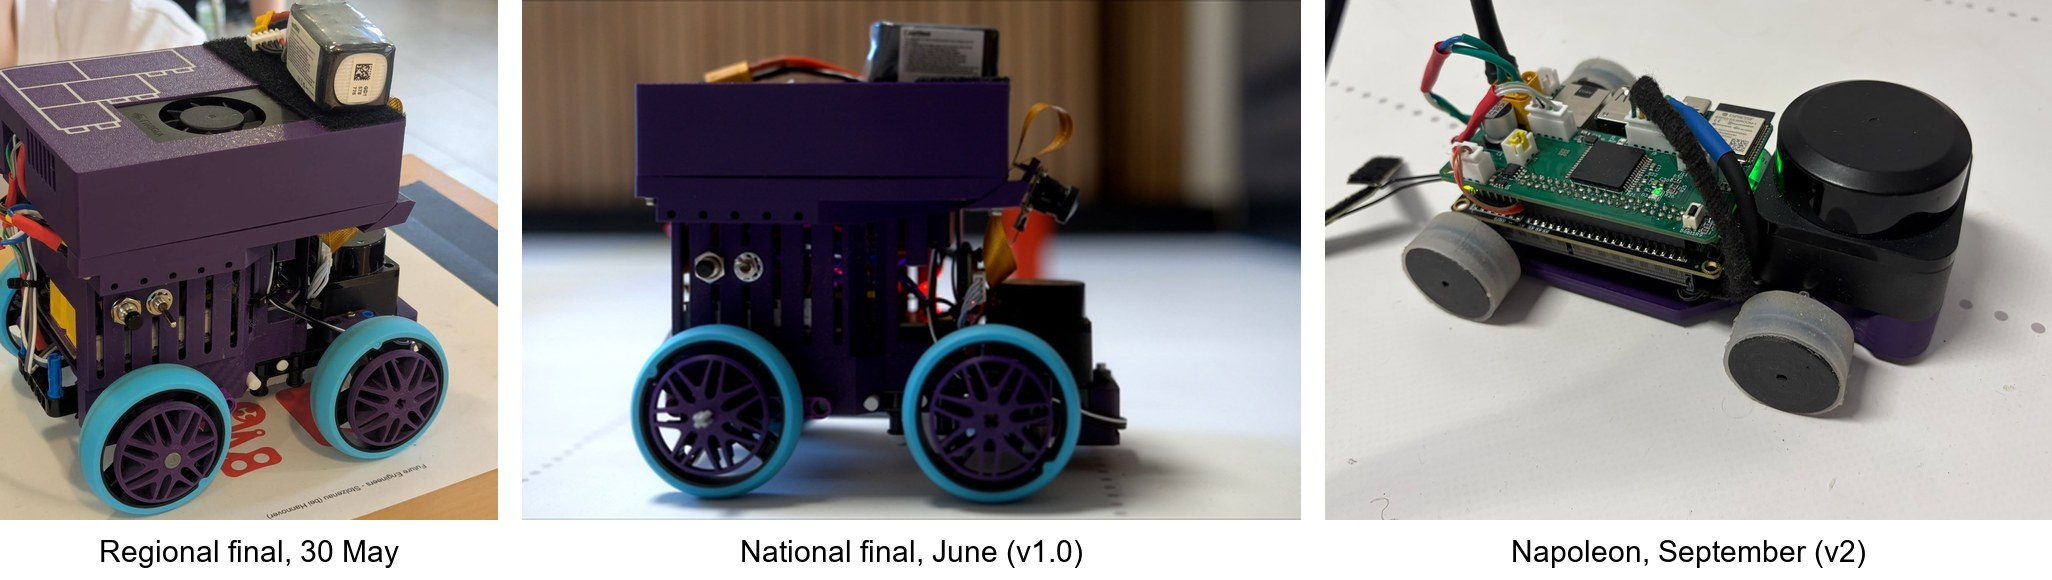
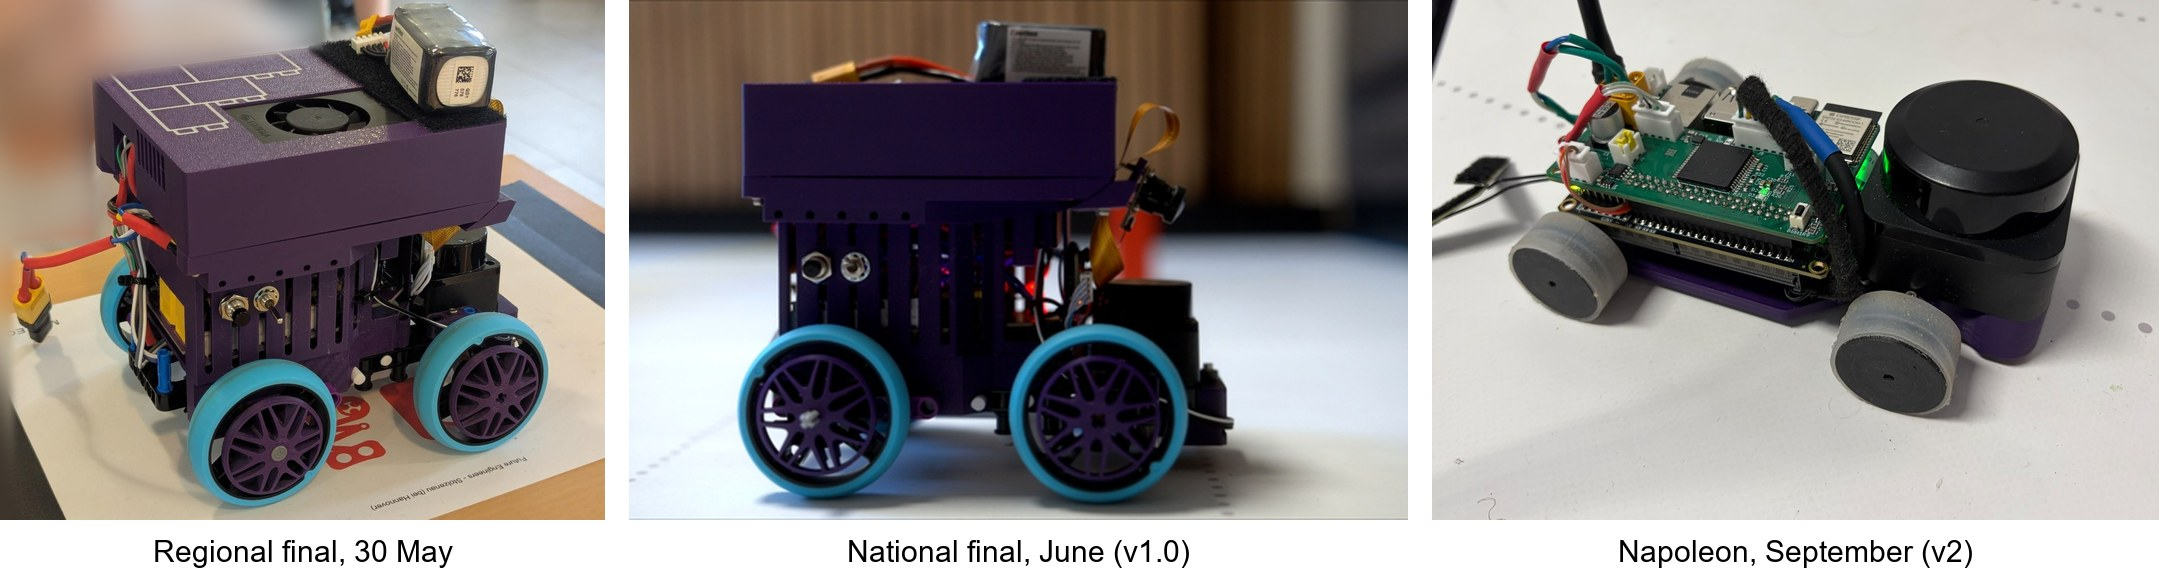
Add measured mass, centre of gravity and tyre geometry
- Chapter 1: mass, axle loads and CoG from the scales and tilt test
  (T01/T02, without body), tyre diameters and runout (T12), wheel mass
  (T17), camera and holder mass, tipping limit from the measured CoG
- Chapters 0 and 4: measured mass and CoG instead of placeholders
- Workbook: measured values entered, unmeasured placeholders removed,
  self-steer radius formula corrected (R = T*d/delta_d)
- Iteration figure: regional robot no longer cut off on the left

diff --git a/docs/journal/02-mobility.md b/docs/journal/02-mobility.md
@@ -76,22 +76,31 @@ the motor and the drive axle.
 
 ![Top view. Motor (left) next to the Jetson stack, bevel gears at the rear axle, LiDAR in front.](../figures/mobility_top_view.png){width=50%}
 
-**Centre of gravity.** Materials are assigned to every part in Fusion 360, so the
-CAD model gives a centre of gravity (CoG). It lies slightly off the centre line,
-because the Jetson, one of the heaviest components, does not sit on it. The real
-robot is checked with two scales and a tilt test (test T02):
+**Centre of gravity.** The centre of gravity (CoG) was measured on the robot
+ready to drive, with the race battery and the camera on its holder, without the
+body (tests T01/T02). Two kitchen scales of equal height give the axle loads
+$m_f$, $m_r$ and the side loads; with the rear axle raised by $\Delta h = 40$ mm
+the car tilts by $\theta = \arcsin(\Delta h / L) = 23.1°$, and the front-axle
+load rises to $m_f'$. With the effective wheel radius $r = 15$ mm:
 
-| Quantity | CAD, sum of weighed parts ‡ | Scales and tilt test ‡ |
-|---|---|---|
-| Mass with body | 573 g | 575 g |
-| CoG ahead of the rear axle | 60.9 mm | 59.5 mm |
-| Front-axle load | 60 % | 58 % |
-| CoG off the centre line | 3.3 mm | 2.7 mm |
-| CoG above ground | 30.2 mm | 31.3 mm |
+$$x = L\,\frac{m_f}{m_f + m_r}, \qquad z = r + \frac{L\,(m_f' - m_f)}{(m_f + m_r)\tan\theta}$$
 
+| Quantity | Measured |
+|---|---|
+| Mass, weighed as a whole | 586 g |
+| Front / rear axle load | 322 g / 257 g (sum 579 g) |
+| Left / right side load | 284 g / 295 g |
+| Front-axle load with the rear raised by 40 mm | 377 g |
+| CoG ahead of the rear axle, $x$ | 56.7 mm (55.6 % front-axle load) |
+| CoG off the centre line | 0.9 mm to the right |
+| CoG above ground, $z$ | 38 mm (22.7 mm above the axle) |
+
+The CoG is computed from the sum of the axle loads, so that all values come from
+the same pair of scales; weighed as a whole on another scale the robot showed
+7 g more. One gram on the scale moves $z$ by about 0.4 mm. The robot is almost
+exactly centred sideways.
 Data: [`mobility_measurements.xlsx`](../data/manual/mobility_measurements.xlsx),
-sheet `Mass_CoG`. The body and the camera add 68 g ‡; without them the CoG drops
-by 3.7 mm ‡.
+sheet `Mass_CoG`.
 
 **Why the motor lies lengthways.** A transverse motor directly on the rear axle
 was the obvious alternative and was designed first (V1 base plate, June). It was
@@ -198,16 +207,19 @@ that the drivetrain vibration stays out of the yaw axis.
 
 Napoleon carries a detachable body shaped like a VW T1 bus (v4). It has no
 structural function but holds the fisheye camera and the LED lighting. With the
-body the vehicle measures 182 × 111 × 84 mm.
+body the vehicle measures 182 × 111 × 84 mm (CAD). The body is designed and is
+being finished for the European Open; all measurements in this chapter were
+taken without it.
 
 The body sits on pogo pins, which locate it and power the LEDs, so no cable has
 to be plugged when it is mounted. When fitted, it replaces the separate camera
-holder. Aerodynamics play no role at our speeds.
+holder (7.35 g); the camera itself weighs 23.05 g with its USB cable.
+Aerodynamics play no role at our speeds.
 
 The shape was first modelled in Fusion 360 Alias. The final version is based on
 a public model, scaled and cut to the wheelbase, the track and the Jetson level.
 Free space around the LiDAR scan plane was a fixed boundary condition (to be
-verified with and without the body in test T14). Body and camera weigh 68 g ‡.
+verified with and without the body in test T14).
 
 ### Digital twin and CAD workflow
 
@@ -487,7 +499,7 @@ $$a_\text{traction} = \frac{\mu \cdot g \cdot l_f / L}{1 - \mu \cdot h / L}$$
 | Measured top speed, 100 % PWM, 15.9 V | encoder log, full-throttle step (T07) | 1.72 m/s ‡ |
 | Time constant $\tau$ (63.2 %) | step response (T07) | 0.34 s ‡ |
 | Max. measured acceleration | step response (T07) | 4.6 m/s² ‡ |
-| Traction limit, rear-wheel drive | formula above, $\mu = 0.88$ ‡ | 4.9 m/s² ‡ |
+| Traction limit, rear-wheel drive | formula above with the measured CoG, $\mu = 0.88$ ‡ | 5.7 m/s² ‡ |
 | Deceleration after a halt command | fitted to the stopping distances of runs 38–42 ([chapter 3](04-software.md#obstacle-strategy)) | 0.57 m/s² |
 | Rolling resistance incl. drivetrain drag | $c_r = a/g$ | ≤ 0.058 (upper bound, it also contains the drag of gearbox and motor) |
 | Limiting factor at launch | wall test ([chapter 2](03-power-sensors.md#the-operating-envelope-is-bounded-by-traction-not-by-stall)) | traction |
@@ -496,7 +508,7 @@ $$a_\text{traction} = \frac{\mu \cdot g \cdot l_f / L}{1 - \mu \cdot h / L}$$
 Add it back (docs/figures/mobility_step_response.png) once test T07 is
 measured. -->
 
-The measured acceleration stays just below the traction limit ‡, and the wall test
+The measured acceleration stays below the traction limit ‡, and the wall test
 shows the tyres slipping long before the motor stalls. Stall torque and stall
 current were therefore not measured: they are never reached. The vehicle has no
 active brake; it coasts, and the controller triggers every halt early by the
@@ -584,9 +596,9 @@ gone.
 | Quantity | Value | Source |
 |---|---|---|
 | Nominal diameter | 32.0 mm | mould |
-| Measured diameter, 4 tyres, 3 positions each | 31.98–32.06 mm ‡ | test T12 |
-| Runout (max − min per tyre) | ≤ 0.08 mm ‡ | test T12 |
-| Mass per wheel (rim + tyre) | 9.2–9.7 g ‡ | test T17 |
+| Measured diameter, 4 tyres, 3 positions each | 31.8–32.1 mm (mean per tyre), single readings 31.6–32.1 mm | calipers, test T12 |
+| Runout (max − min per tyre) | ≤ 0.4 mm | calipers, test T12 |
+| Mass per wheel (rim + tyre) | 9 g, all four (scale resolution 1 g) | test T17 |
 | Effective rolling radius under load | 15.0 mm | encoder model of the EKF ([chapter 3](04-software.md#localisation)) |
 | Effective diameter from 10 × 2.00 m | 30.03 mm ‡ | test T04 |
 | Lateral deviation after 3 m straight, steering at 0 | 21 mm ‡ | test T12 |
@@ -609,9 +621,10 @@ The silicone grips about 70 % better than the old LEGO tyre ‡, but dust from t
 mat costs about a quarter of it ‡. The tyres are therefore cleaned before every
 calibration and every run.
 
-With $\mu = 0.99$ ‡ the robot slides sideways at 9.7 m/s² ‡, while it would only
-tip at $g \cdot (T/2)/h = 15.1$ m/s² ‡. It always slides before it tips, with a
-margin of 1.56 ‡.
+With the measured CoG height $h = 38$ mm and the track $T = 96.2$ mm the robot
+would only tip at a lateral acceleration of $g \cdot (T/2)/h = 12.5$ m/s². With
+$\mu = 0.99$ ‡ it slides sideways at 9.7 m/s² ‡, so it always slides before it
+tips, with a margin of 1.29 ‡.
 
 ### Ground clearance and suspension
 
@@ -703,12 +716,12 @@ The mechanical design took about seven months from a first component layout to
 
 | Test | Replaces | Section |
 |---|---|---|
-| T01/T02 masses, axle loads, CoG | mass and CoG values ‡ | [Packaging](#packaging-in-four-levels) |
+| T01/T02 masses, axle loads, CoG | done without the body (01.10.); the masses of the single parts were not weighed | [Packaging](#packaging-in-four-levels) |
 | T04 encoder distance calibration | effective diameter ‡ | [Tyres](#tyres-cast-silicone) |
 | T05 static wheel angles and play | static lock, play ‡ | [Static wheel angles and play](#static-wheel-angles-and-play) |
 | T07 full-throttle step | top speed, $\tau$, acceleration ‡ | [Speed and acceleration](#speed-and-acceleration) |
 | T08 inclined board | $\mu$, sliding and tipping limits ‡ | [Tyres](#tyres-cast-silicone) |
-| T12/T17 tyre geometry and mass | diameters, runout, straight-line deviation ‡ | [Tyres](#tyres-cast-silicone) |
+| T12/T17 tyre geometry and mass | done (01.10.): diameters, runout, 9 g per wheel; straight-line deviation ‡ | [Tyres](#tyres-cast-silicone) |
 | T13 servo step | steering step time ‡ | [Steering speed](#steering-speed) |
 | T14 LiDAR field of view with and without body | – (240° from the software cut, see [Sensor mounting](#sensor-mounting)) | [Body](#body-vw-t1) |
 | T16 FEA C-profile old vs. v54 | – | [Materials and manufacturing](#materials-and-manufacturing) |

diff --git a/docs/journal/05-systems.md b/docs/journal/05-systems.md
@@ -81,8 +81,9 @@ Most of the software described in chapter 3 is a reaction to one of these rows.
 | Ties are broken by time. At the German national final the sum of the best open and obstacle challenge times decided (same points as two other teams, 4th place on time); the international rules compare the points and then the time of the best obstacle round, the open challenge time only comes last | faster driving, above all in the obstacle challenge, needed a pose that does not depend on every single scan → EKF |
 | The time runs until the robot stands in the bay, the international rules ask for no pause. The German rules differ: a 3 s stop after three laps, the time is taken there, and parking only has to be finished within the 3 minutes | no halt before parking; approach under closed-loop control instead of a stop and a blind move |
 | Vehicle size: at most 300 × 200 mm and 300 mm high (general rules 9.17) | not the binding limit: Napoleon measures 182 × 111 × 84 mm with its body. What fixed the size was the Jetson: the developer kit set the size of the national-final robot (170 × 140 mm), the module on the smaller Seeed A603 carrier allowed the new chassis ([chapter 1](02-mobility.md)) |
-| Vehicle mass: at most 1.5 kg (general rules 11.2) | 575 g ‡ (national final: 803 g); the low and light vehicle is limited by traction, not by the motor, and slides before it tips ([chapter 1](02-mobility.md#speed-and-acceleration)) |
+| Vehicle mass: at most 1.5 kg (general rules 11.2) | 586 g without body (national final: 803 g); the low and light vehicle is limited by traction, not by the motor, and slides before it tips ([chapter 1](02-mobility.md#speed-and-acceleration)) |
 | Energy: one 4S pack of 450 mAh in races; the Jetson draws 76 % of the idle current | ≈22 min per pack, almost independent of the driving speed; the 5 V rail carries ≈0.7 A, the figure the eFuse limit is set against ([chapter 2](03-power-sensors.md#power-budget)) |
+| International instead of German rules: up to two pillars per straight instead of exactly one; parking after the three laps is part of the obstacle challenge and must be parallel, otherwise the points of the round are halved (German rules: optional extra task, no parallel requirement) | pillar map with two seats per row and the 35 % rule; path planning around two pillars per straight; parking with a measured parallel error (axle difference) instead of only ending between the walls |
 | Points before time: a run that fails costs more than a slow one | scan halts in lap 1 accepted although they cost time |
 | Colour is only reliable at standstill (frame rate 15.5 → 2.5 Hz, coloured points 38 → 2 % while driving) | scan halts in lap 1 only; map frozen after lap 1 |
 | Colour only reliable up to 1.60 m (red read as green beyond ~1.7 m) | votes from further away count as "something there" only |
@@ -144,14 +145,14 @@ complete versions. The table compares them subsystem by subsystem.
 
 | Subsystem | National final, June 2026 (v1.0, commit 40f0dad) | Napoleon, European Open (v2) | Why it changed |
 |---|---|---|---|
-| Chassis | LEGO hybrid, 50 % LEGO; 170 × 140 × 170 mm, 803 g | screw-jointed FDM monocoque with SLA parts, no LEGO; 160 × 111 × 61 mm, 575 g ‡ | every LEGO fit added clearance to the tolerance chain; the developer kit set the size ([chapter 1](02-mobility.md#structural-concept)) |
+| Chassis | LEGO hybrid, 50 % LEGO; 170 × 140 × 170 mm, 803 g | screw-jointed FDM monocoque with SLA parts, no LEGO; 160 × 111 × 61 mm, 586 g without body | every LEGO fit added clearance to the tolerance chain; the developer kit set the size ([chapter 1](02-mobility.md#structural-concept)) |
 | Steering | direct printed link, parallel, ±35°, < 0.5° play (regional final: LEGO rack, 2–4° play) | Ackermann linkage with steel tie-rod ends, 58° / 36.5° | the rack skipped, the direct link had no Ackermann geometry and came loose at the LEGO parts ([chapter 1](02-mobility.md#from-rack-to-ackermann-linkage)) |
 | Drive | Pololu 20D 31:1 on a LEGO differential, no encoder (before: Pololu 25:1) | 25GA370 with Hall encoder, lengthways, brass bevel gears 1:1, rigid axle | closed speed loop; motor with encoder had to fit ([chapter 1](02-mobility.md#motor-selection)) |
 | Wheels | LEGO Spike, 67 mm | cast silicone tyres on PA6-CF rims, 32 mm | grip, lower vehicle ([chapter 1](02-mobility.md#tyres-cast-silicone)) |
 | Electronics | Jetson developer kit; motor, servo and LiDAR drivers separate from the main PCB | Jetson module on the A603 carrier; main PCB V5 as a stack with power path, motor driver, servo interface and LiDAR bridge; no 12 V rail | size, cabling, protection ([chapter 2](03-power-sensors.md#design-evolution)) |
 | Sensors | STL-19P LiDAR (≈250° usable), 120° CSI camera, BNO055 | RPLIDAR S3 (240° used), fisheye camera above the LiDAR, BNO055, wheel encoder | scan rate and range on the black walls; see the next straight before the corner ([chapter 2](03-power-sensors.md#sensors-selection-and-placement)) |
 | Software | LiDAR wall follower (PID), YOLOv11n, IMU turn counting | EKF on a map of the field, colour per LiDAR point, Stanley and arc control, state machines | a pose from every single scan failed on one bad scan; ties are broken by time ([chapter 3](04-software.md)) |
-| Result | full driving score, 29/30 documentation, 4th place on time | 71 recorded test runs: 17/22 races finished; parking 13/45 within 2 cm overall, 5/5 in runs 35–46 ([chapter 3](04-software.md#results-over-all-test-runs)) | |
+| Result | full driving score, 29/30 documentation, 4th place on time | 71 recorded test runs: 17/22 races finished; parking 13/45 within 2 cm overall, 5/5 in runs 35–46 ([chapter 3](04-software.md#results-over-all-test-runs)) | the task is harder now: the German rules place exactly one pillar per straight and make parking an optional extra task without a parallel requirement; the international rules place up to two pillars per straight and require parallel parking after the three laps |
 
 ![The three vehicles of the season (photos not to scale): the LEGO hybrid at the regional final and before the national final (170 × 140 × 170 mm, 803 g), and Napoleon without its body (160 × 111 × 61 mm).](../figures/iterations_robots.jpg)
 

diff --git a/docs/journal/01-overview.md b/docs/journal/01-overview.md
@@ -41,11 +41,10 @@ compares it with the LEGO hybrid that we drove at the national final.
 | Final drive | printed gear on a LEGO differential | brass bevel gears 1:1, rigid axle | [Drive train](02-mobility.md#drive-train-torque-and-speed) |
 | Theoretical top speed | 1.31 m/s | 1.68 m/s (12 V, no load) | [Speed and acceleration](02-mobility.md#speed-and-acceleration) |
 | LEGO content | 50 % | 0 % | – |
-| Total mass (with body) | 803 g | 575 g ‡ | test T01 |
-| Centre of gravity | not measured | 31 mm above ground ‡ | test T02 |
+| Total mass | 803 g | 586 g (without body) | [weighed](02-mobility.md#packaging-in-four-levels) |
+| Centre of gravity | not measured | 38 mm above ground, 56.7 mm ahead of the rear axle | [scales and tilt test](02-mobility.md#packaging-in-four-levels) |
 | Run time open / obstacle challenge | ≈30 s / ≈80 s | ≈27 s / ≈80 s incl. parking, varying from run to run | [open](04-software.md#open-challenge), [obstacle](04-software.md#obstacle-challenge) challenge |
 
-‡ still being measured, see [Validation status](02-mobility.md#validation-status).
 
 <!-- CHECK (team): where do the national-final run times (≈30 s / ≈80 s) come
 from? -->
